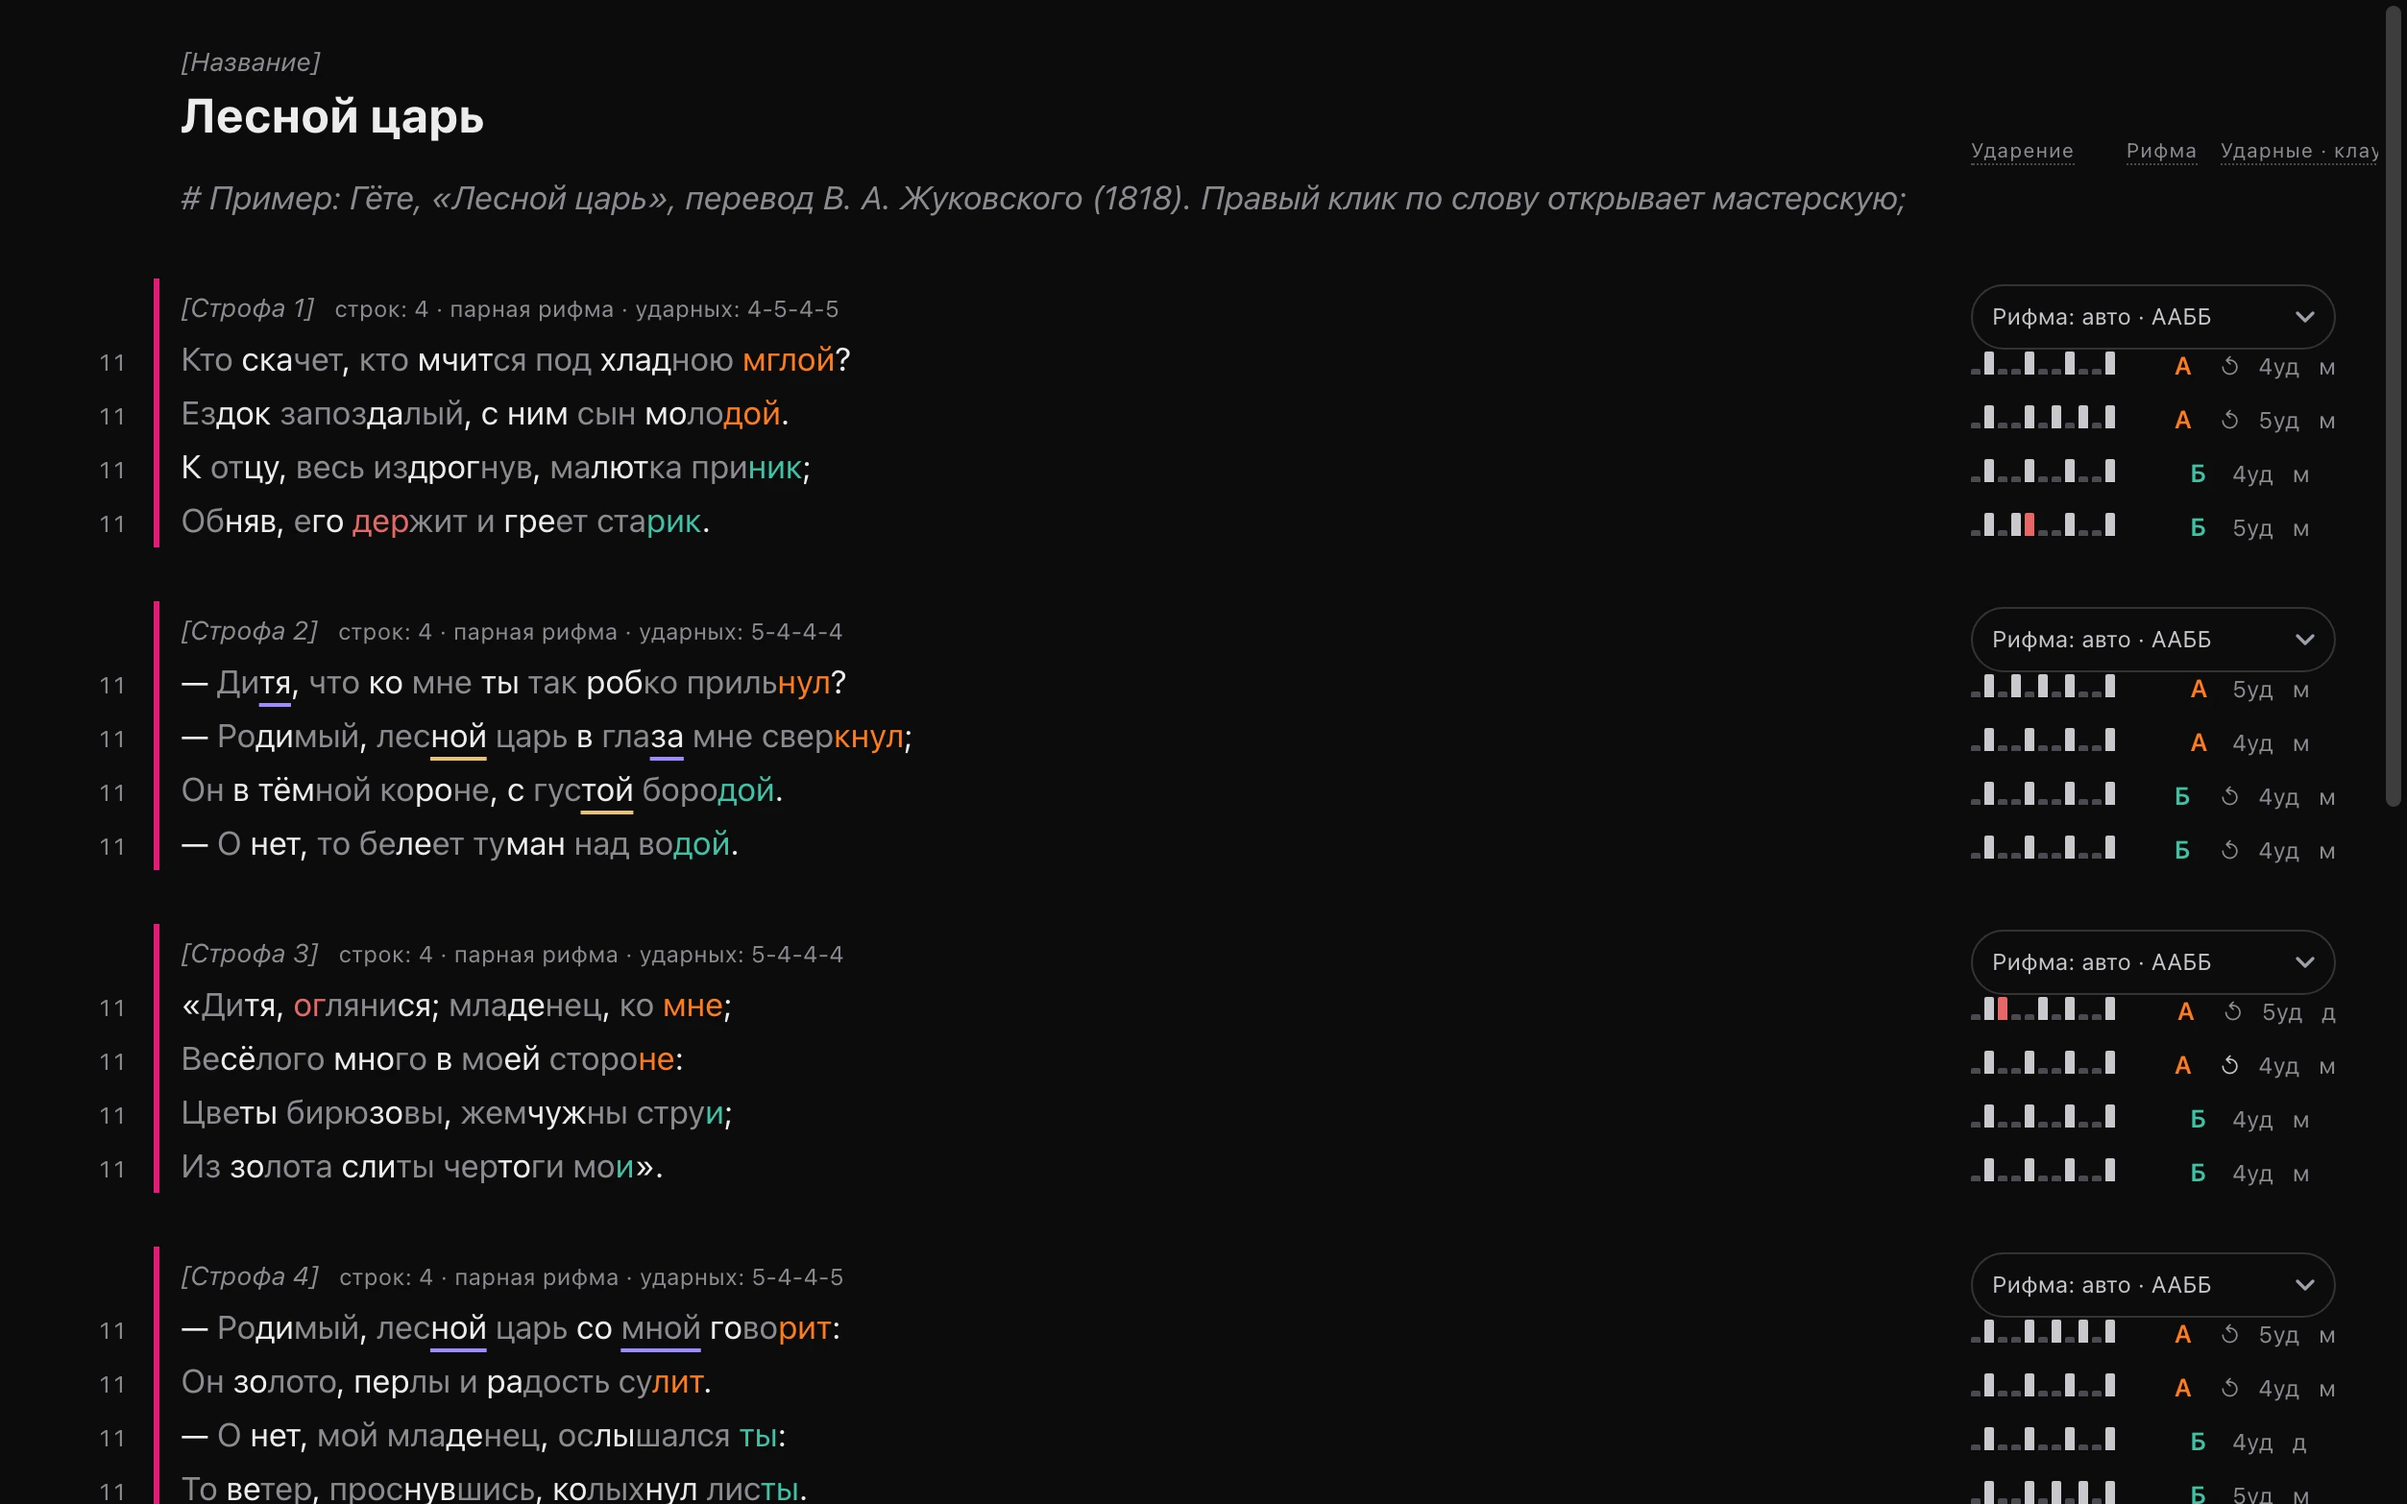
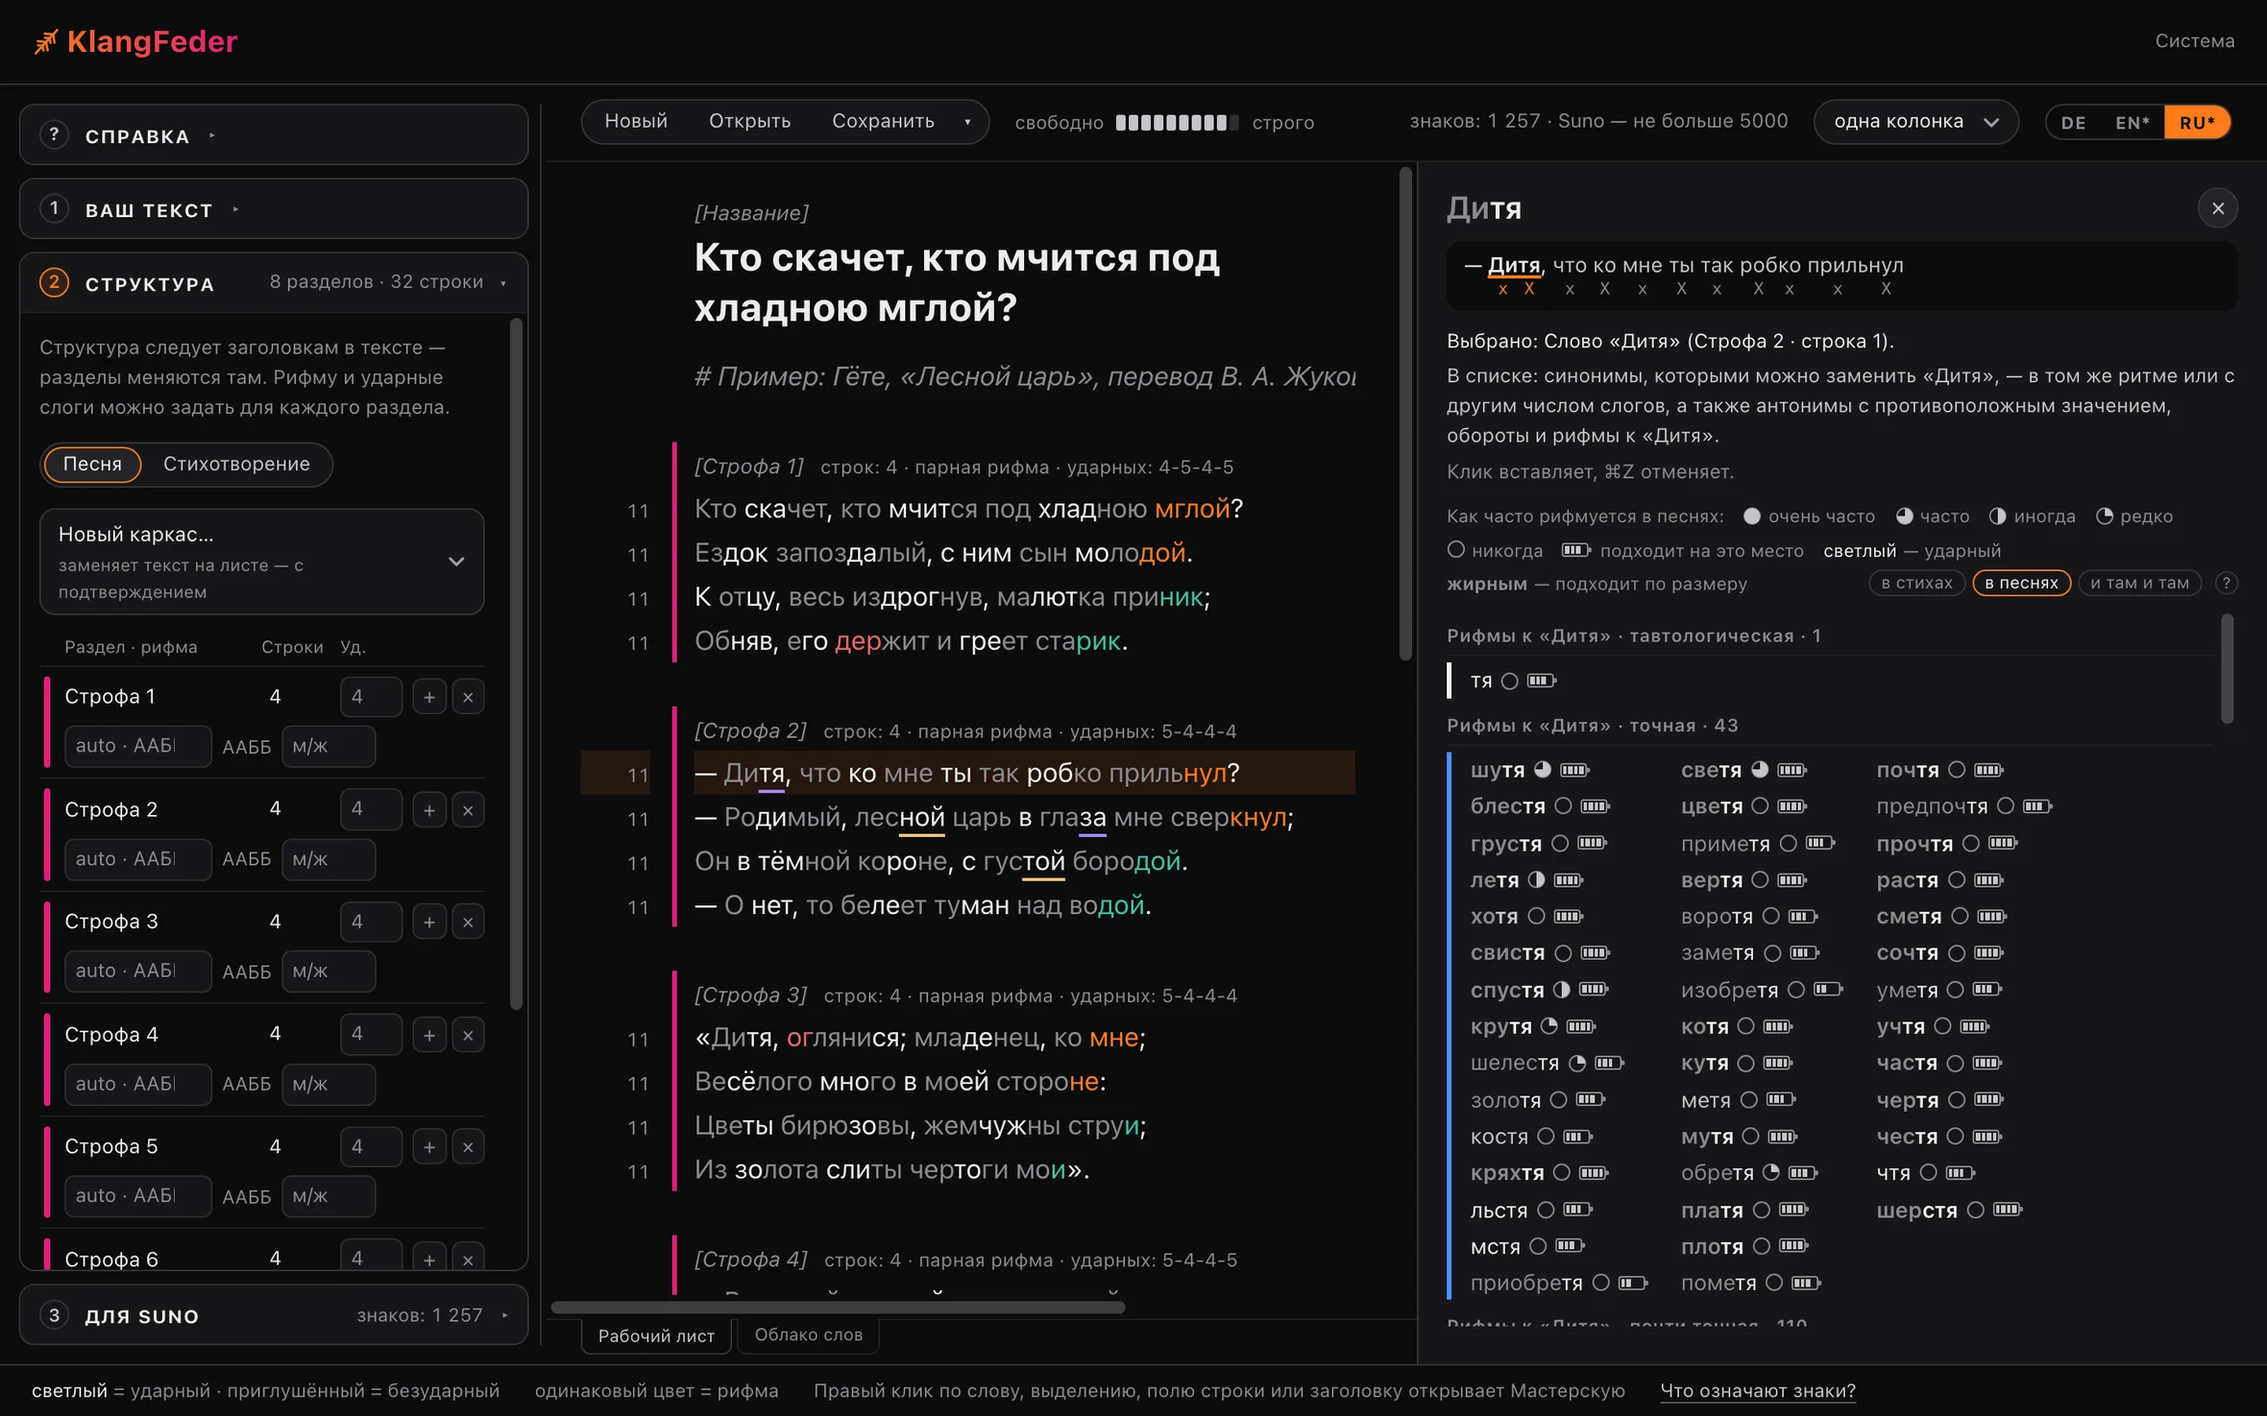
Russisches Titelbild zeigt die ganze KlangFeder samt Reimwerkbank
Das bisherige Bild war nur ein Ausschnitt des Textblatts (#mitte): keine
Kopfzeile, kein Aufbau, keine Werkbank - anders als de und en, die das
ganze Fenster zeigen. Neu aufgenommen wie dort, 1440x900 bei doppelter
Pixeldichte, Werkbank auf «Дитя» (das russische Gegenstück zu Kind und
child). Text bleibt Schukowskis «Лесной царь» von 1818.

diff --git a/docs/inhalt.js b/docs/inhalt.js
@@ -281,7 +281,7 @@ S.laden = {
       ru:'<b>Системные требования.</b> Около 1,5 ГБ свободного места для программы и словарей. Современный веб-браузер. Другие системы Linux: <a href="https://github.com/CasparDavi/klangfeder/releases/latest/download/KlangFeder-x86_64.AppImage">AppImage</a>. Без цифровой подписи: в Windows браузер Edge сначала задерживает загрузку — нажмите стрелку рядом с «Удалить» → «Сохранить»; при первом запуске Windows может спросить ещё раз, а macOS блокирует приложение, пока вы не разрешите его в разделе «Конфиденциальность и безопасность» → «Всё равно открыть». После установки колокольчик рядом с «Система» сообщает о новой версии; один клик её устанавливает.'}
 };
 
-const BV = '6';   // Bildstand: hochzählen, wenn Bilder ersetzt werden (sonst zeigt der Browser alte)
+const BV = '7';   // Bildstand: hochzählen, wenn Bilder ersetzt werden (sonst zeigt der Browser alte)
 const BILDER = {
   titel: { sprachen: { de: `img/titel-de.webp?v=${BV}`, en: `img/titel-en.webp?v=${BV}`, ru: `img/titel-ru.webp?v=${BV}` } },
   schreiben: { sprachen: { de: `img/schreiben-de.webp?v=${BV}`, en: `img/schreiben-en.webp?v=${BV}`, ru: `img/schreiben-ru.webp?v=${BV}` } },
